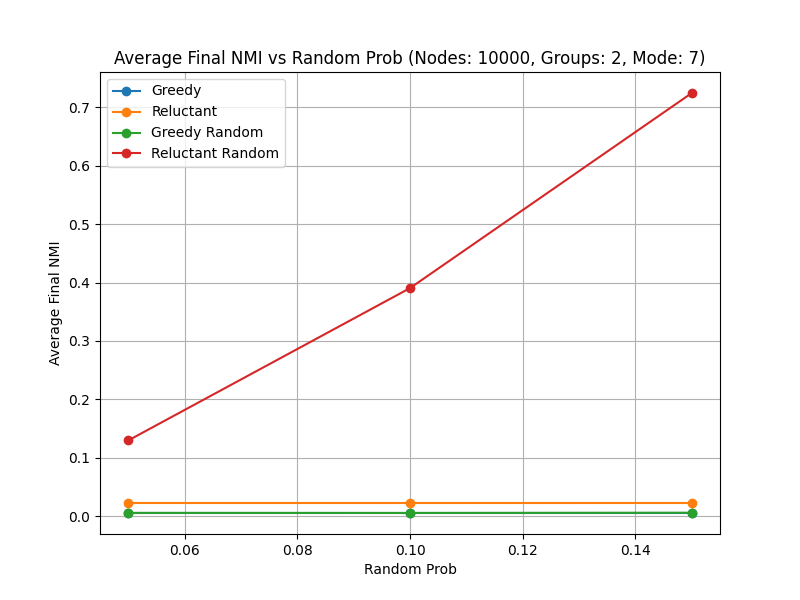
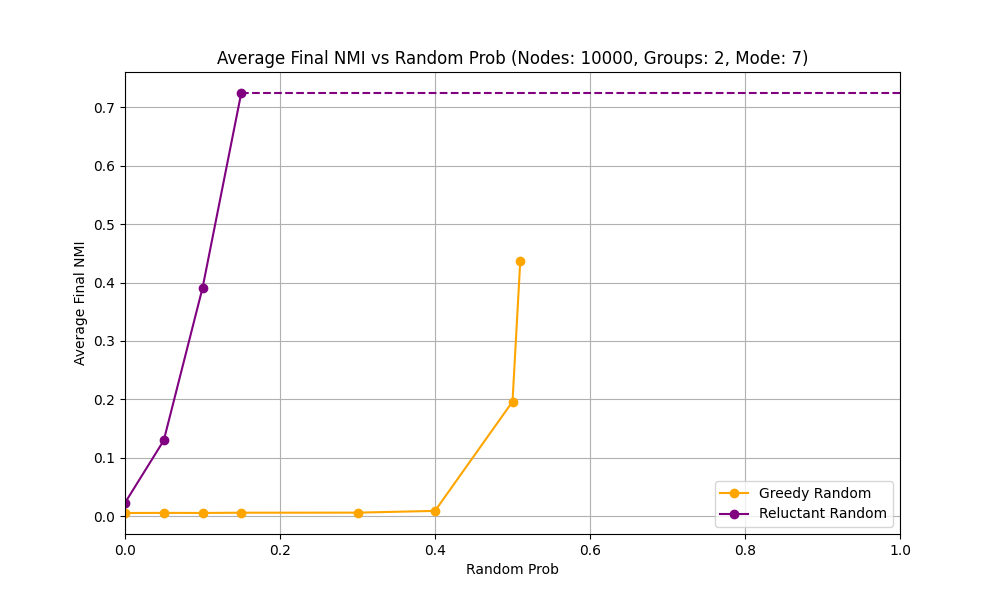
finish optimising for various random prob for greedy random

diff --git a/src/sbm_analysis_random_prob.py b/src/sbm_analysis_random_prob.py
@@ -1,0 +1,121 @@
+import os
+import json
+import re
+import numpy as np
+import matplotlib.pyplot as plt
+
+def extract_final_ll_vs_random_prob_random_greedy_and_reluctant(results_folder, num_nodes, num_groups, mode_number):
+    pattern = re.compile(rf"SBM\({num_nodes}, {num_groups}, t{mode_number}0, ([0-9.]+)\)_results\.json")
+    
+    random_probs = []
+    ll_values = {"gr": [], "rr": []}
+    
+    for file in os.listdir(results_folder):
+        match = pattern.match(file)
+        if match:
+            random_prob = match.group(1)
+            random_probs.append(float(random_prob))
+            
+            with open(os.path.join(results_folder, file), 'r') as f:
+                data = json.load(f)
+            
+            final_lls = {"gr": [], "rr": []}
+            
+            for key in data["cost_data"]:
+                if "cost_data_gr" in data["cost_data"][key]:
+                    final_lls["gr"].append(data["cost_data"][key]["cost_data_gr"][-1])
+                if "cost_data_rr" in data["cost_data"][key]:
+                    final_lls["rr"].append(data["cost_data"][key]["cost_data_rr"][-1])
+            
+            for method in ll_values:
+                if final_lls[method]:
+                    ll_values[method].append(np.mean(final_lls[method]))
+                else:
+                    ll_values[method].append(np.nan)  # Handle missing data with NaN
+    
+    sorted_indices = np.argsort(random_probs)
+    random_probs = np.array(random_probs)[sorted_indices]
+    
+    for method in ll_values:
+        ll_values[method] = np.array(ll_values[method])[sorted_indices]
+    
+    plt.figure(figsize=(10, 6))
+    colors = {"gr": "orange", "rr": "purple"}
+    for method, label in zip(["gr", "rr"], ["Greedy Random", "Reluctant Random"]):
+        plt.plot(random_probs, ll_values[method], marker='o', label=label, color=colors[method])
+
+    plt.xlim(0, 1)
+    # include horizontal line from reluctant randomS
+    last_rr_idx = next(i for i in reversed(range(len(ll_values["rr"]))) if not np.isnan(ll_values["rr"][i]))
+    plt.axhline(y=ll_values["rr"][last_rr_idx], color=colors["rr"], linestyle='--', xmin=0.15, xmax=1)
+    
+    plt.xlabel("Random Prob")
+    plt.ylabel("Average Final Log-Likelihood")
+    plt.title(f"Average Final LL vs Random Prob (Nodes: {num_nodes}, Groups: {num_groups}, Mode: {mode_number})")
+    plt.legend()
+    plt.grid()
+    plt.savefig(f"plots/SBM({num_nodes}, {num_groups}, t{mode_number}0, X)_cost.png")
+    plt.show()
+
+
+def extract_final_nmi_vs_random_prob_greedy_and_reluctant(results_folder, num_nodes, num_groups, mode_number):
+    pattern = re.compile(rf"SBM\({num_nodes}, {num_groups}, t{mode_number}0, ([0-9.]+)\)_results\.json")
+    
+    random_probs = []
+    nmi_values = {"gr": [], "rr": []}
+    
+    for file in os.listdir(results_folder):
+        match = pattern.match(file)
+        if match:
+            random_prob = match.group(1)
+            random_probs.append(float(random_prob))
+            
+            with open(os.path.join(results_folder, file), 'r') as f:
+                data = json.load(f)
+            
+            final_nmis = {"gr": [], "rr": []}
+            
+            for key in data["cost_data"]:
+                if "nmi_gr" in data["cost_data"][key]:
+                    final_nmis["gr"].append(data["cost_data"][key]["nmi_gr"])
+                if "nmi_rr" in data["cost_data"][key]:
+                    final_nmis["rr"].append(data["cost_data"][key]["nmi_rr"])
+            
+            for method in nmi_values:
+                if final_nmis[method]:
+                    nmi_values[method].append(np.mean(final_nmis[method]))
+                else:
+                    nmi_values[method].append(np.nan)
+
+    sorted_indices = np.argsort(random_probs)
+    random_probs = np.array(random_probs)[sorted_indices]
+    
+    for method in nmi_values:
+        nmi_values[method] = np.array(nmi_values[method])[sorted_indices]
+    
+    plt.figure(figsize=(10, 6))
+    colors = {"gr": "orange", "rr": "purple"}
+    for method, label in zip(["gr", "rr"], ["Greedy Random", "Reluctant Random"]):
+        plt.plot(random_probs, nmi_values[method], marker='o', label=label, color=colors[method])
+    
+    # include horizontal line from reluctant random
+    plt.xlim(0, 1)
+    # include horizontal line from reluctant randomS
+    last_rr_idx = next(i for i in reversed(range(len(nmi_values["rr"]))) if not np.isnan(nmi_values["rr"][i]))
+    plt.axhline(y=nmi_values["rr"][last_rr_idx], color=colors["rr"], linestyle='--', xmin=0.15, xmax=1)
+    
+    plt.xlabel("Random Prob")
+    plt.ylabel("Average Final NMI")
+    plt.title(f"Average Final NMI vs Random Prob (Nodes: {num_nodes}, Groups: {num_groups}, Mode: {mode_number})")
+    plt.legend()
+    plt.grid()
+    plt.savefig(f"plots/SBM({num_nodes}, {num_groups}, t{mode_number}0, X)_nmi.png")
+    plt.show()
+
+
+if __name__ == "__main__":
+    results_folder = r'C:\Projects\Heuristics for combinatorial optimisation\results'
+
+    extract_final_ll_vs_random_prob_random_greedy_and_reluctant(results_folder, num_nodes = 10000, num_groups = 2, mode_number = 7)
+
+    extract_final_nmi_vs_random_prob_greedy_and_reluctant(results_folder, num_nodes = 10000, num_groups = 2, mode_number = 7)

diff --git a/src/sbm_graph_processing.py b/src/sbm_graph_processing.py
@@ -53,10 +53,10 @@ if __name__ == "__main__":
             # file_path = rf"C:\Projects\Heuristics for combinatorial optimisation\Heuristics-for-combinatorial-optimisation\data\graphs\SBM(1000, 2, t{mode_number}{instance_number}).json"
 
 
-    mode_number = 2
+    mode_number = 7
     instance_number = 0
 
-    random_prob = 0.15
+    random_prob = 0
 
     seed = 1+instance_number
     np.random.seed(seed)
@@ -208,10 +208,10 @@ if __name__ == "__main__":
         graph_g, log_likelihood_data_g, final_w_g, g_optimised_g = greedy_state.optimise(algo_func="greedy", random_prob=random_prob, max_iterations=None)
         reluctant_state = SBMState(graph_copy, num_groups, w)
         graph_r, log_likelihood_data_r, final_w_r, g_optimised_r = reluctant_state.optimise(algo_func="reluctant", random_prob=random_prob, max_iterations=None)
-        reluctant_state = SBMState(graph_copy2, num_groups, w)
-        graph_gr, log_likelihood_data_gr, final_w_gr, g_optimised_gr = reluctant_state.optimise(algo_func="greedy_random", random_prob=random_prob, max_iterations=None)
-        reluctant_state = SBMState(graph_copy3, num_groups, w)
-        graph_rr, log_likelihood_data_rr, final_w_rr, g_optimised_rr = reluctant_state.optimise(algo_func="reluctant_random", random_prob=random_prob, max_iterations=None)
+        greedy_random_state = SBMState(graph_copy2, num_groups, w)
+        graph_gr, log_likelihood_data_gr, final_w_gr, g_optimised_gr = greedy_random_state.optimise(algo_func="greedy_random", random_prob=random_prob, max_iterations=None)
+        reluctant_random_state = SBMState(graph_copy3, num_groups, w)
+        graph_rr, log_likelihood_data_rr, final_w_rr, g_optimised_rr = reluctant_random_state.optimise(algo_func="reluctant_random", random_prob=random_prob, max_iterations=None)
 
         results["cost_data"][f"initial_coloring_{i}"] = {
             "cost_data_g": log_likelihood_data_g,

diff --git a/src/sbm_analysis_single_graph.py b/src/sbm_analysis_single_graph.py
@@ -24,10 +24,10 @@ def sbm_plot_cost_data(cost_data, graph_name, num_groups, num_nodes, group_mode,
         iterations_frr = list(range(len(costs_frr)))
 
         # Final cost and total iterations for this coloring
-        # total_iterations_fg = iterations_fg[-1]
-        # final_cost_fg = costs_fg[-1]
-        # total_iterations_fr = iterations_fr[-1]
-        # final_cost_fr = costs_fr[-1]
+        total_iterations_fg = iterations_fg[-1]
+        final_cost_fg = costs_fg[-1]
+        total_iterations_fr = iterations_fr[-1]
+        final_cost_fr = costs_fr[-1]
 
         # Plot "Greedy" (fg) with transparency for multiple colorings
         plt.plot(iterations_fg, costs_fg, color="red", alpha=0.6)
@@ -174,9 +174,9 @@ if __name__ == '__main__':
     num_nodes = 10000
     num_groups = 2
     group_mode = "t"
-    mode_number = 2
+    mode_number = 7
     instance_number = 0
-    random_prob = 0.15  # Set to None if you don't want to include it
+    random_prob = 0 # Set to None if you don't want to include it
 
     # file_path
     base_path = r"C:\Projects\Heuristics for combinatorial optimisation\results"
@@ -209,4 +209,4 @@ if __name__ == '__main__':
     sbm_plot_final_costs(all_cost_data, graph_name, num_nodes, num_groups, group_mode, ground_truth_w, ground_truth_log_likelihood)
 
     # plot histogram of normalised log likelihood diff for all initial colorings
-    sbm_plot_cost_diff_histogram(all_cost_data, num_nodes, graph_name, num_bins=100, bin_range=(-0.2, 0.2))
+    # sbm_plot_cost_diff_histogram(all_cost_data, num_nodes, graph_name, num_bins=100, bin_range=(-0.2, 0.2))

diff --git a/src/algorithms.py b/src/algorithms.py
@@ -282,6 +282,8 @@ class SBMState:
                 break
             self.change_color(node_to_move, new_color)
             iteration += 1
+            # if iteration % 1000 == 0:
+            #     print(iteration)
             self.log_likelihood += log_likelihood_change
             # self.log_likelihood_data[0].append(iteration)
             self.log_likelihood_data.append(self.log_likelihood)
